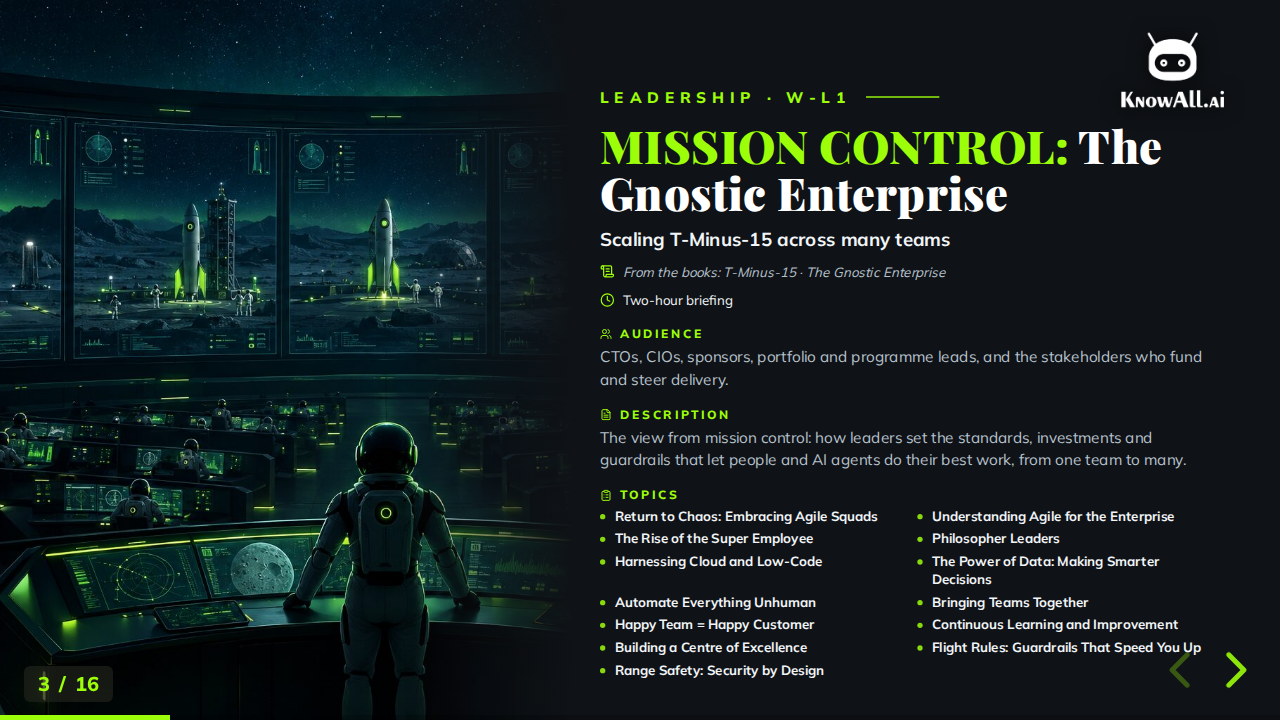
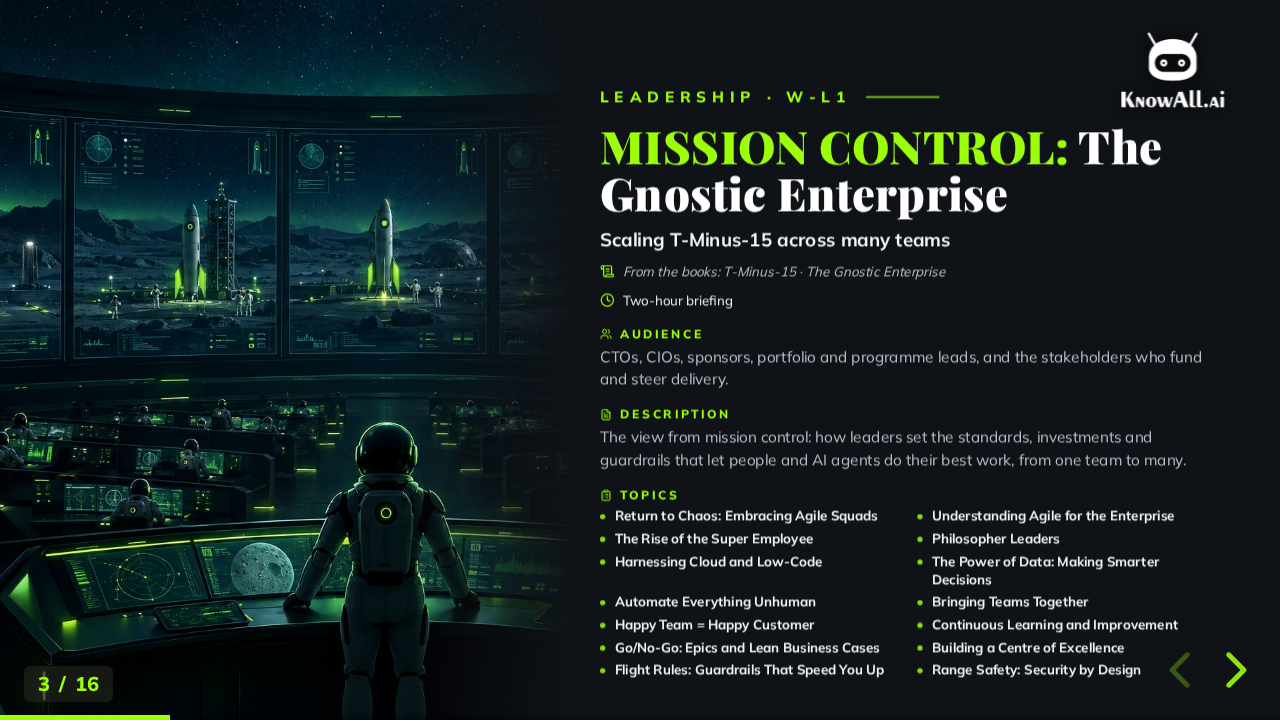
feat(presentations): add Go/No-Go to the W-L1 chapter topics
The Gnostic Enterprise is gaining "Go/No-Go: Epics and Lean Business
Cases" before the Centre of Excellence chapter; the slide's topics (now
fourteen, two columns) and the chat site index follow.

diff --git a/app/api/chat/site-index.ts b/app/api/chat/site-index.ts
@@ -27,7 +27,7 @@ Presentations (https://www.knowall.ai/presentations/) — our slide decks, each 
 - AI Discovery Workshop (https://www.knowall.ai/presentations/ai-discovery.html): the one-day workshop, €2,000 fixed price. Pre-work surveys, an on-site workshop, one-to-one interviews, a value-versus-effort prioritisation (quick wins, major projects, fill-ins, reconsider) and a report with lean business cases. The ideal first step before a Proto-Sprint or project. Best for: "where should we start with AI?", what the Discovery Day involves and costs, how we decide which ideas are worth doing, building a business case.
 - CISP, the Continuous Improvement Service Plan (https://www.knowall.ai/presentations/cisp.html): ongoing support after go-live via pre-purchased time-and-material blocks, typically a twelve-month term, covering Microsoft, AI and custom solutions. Tiers: Gold (4-hour response, 1 business day; Strategic €1,250/day, delivery roles €950/day), Silver (8 hours, 2 business days; €1,200 / €900), Bronze (16 hours, 3 business days; €1,150 / €850). Delivery roles: Prepper, Designer, Engineer, Tester, Operator, Scrum Master. Best for: support after go-live, how a CISP is priced, SLA response times, day rates, buying a block of hours instead of a project.
 - The Purple Team (https://www.knowall.ai/presentations/purple-team.html): continuous AI security. The CVE flood and CISA's exploited list, frontier models on defence, Pennie, Ollie and Poppie, the attack, defend, fix, report loop, advisory-to-merged-fix patching, safe-by-design rules, the tools it works with, the Purple Team Portal, hosted or in-tenant or fully sovereign, and paying by real hours on a CISP after a Security Discovery. Best for: how the Purple Team works, is it safe, where it runs, how it is paid for.
-- T-Minus-15 Workshops (https://www.knowall.ai/presentations/tminus15-workshops.html): capability-building workshops that teach a client's own team to deliver the T-Minus-15 way, one slide per workshop with its audience, description and topics. Seven methodology workshops for the whole delivery team, one for each stage of the lifecycle and each built on the T-Minus-15 book: W-M0 Assemble: The Avengers of Agile (Agile, Scrum, Kanban, DevOps and assembling a cross-functional squad), W-M1 Plan: plotting the course (sprint goals, story point estimation, capacity, roadmaps and incremental releases), W-M2 Prep (decoding the client's wants and needs, the product backlog, epics, features and stories), W-M3 Design (crafting UX that doesn't suck, agentic design, brand guidelines), W-M4 Engineer (the art of engineering), W-M5 Test (raising the bar: acceptance criteria, test plans, automated, security, performance and user acceptance testing) and W-M6 Operate (shipping value: CI/CD, branching, infrastructure-as-code, release pipelines). Five technology workshops, in any order: W-T1 Azure DevOps, W-T2 Dataverse vs SharePoint vs SQL, W-T3 Power Platform including Code Apps (can run as a series), W-T4 CI/CD and W-T5 agentic coding with tools such as Claude Code. Each workshop is typically half a day; technology workshops can be followed by deeper dives on specific subjects. Plus a two-hour leadership briefing for CTOs, sponsors and stakeholders, W-L1 Mission Control: The Gnostic Enterprise (how leaders set the standards, investments and guardrails that let people and AI agents do their best work, from one team to many; one topic per chapter of The Gnostic Enterprise: agile squads, agile for the enterprise, the rise of the super employee, philosopher leaders, cloud and low-code, the power of data, automating everything unhuman, bringing teams together, happy team = happy customer, continuous learning, building a Centre of Excellence, flight rules: guardrails that speed you up, and range safety: security by design), drawing on the T-Minus-15 book and The Gnostic Enterprise. Best for: training a client's team in our methodology, which workshop suits which role, what each workshop covers.
+- T-Minus-15 Workshops (https://www.knowall.ai/presentations/tminus15-workshops.html): capability-building workshops that teach a client's own team to deliver the T-Minus-15 way, one slide per workshop with its audience, description and topics. Seven methodology workshops for the whole delivery team, one for each stage of the lifecycle and each built on the T-Minus-15 book: W-M0 Assemble: The Avengers of Agile (Agile, Scrum, Kanban, DevOps and assembling a cross-functional squad), W-M1 Plan: plotting the course (sprint goals, story point estimation, capacity, roadmaps and incremental releases), W-M2 Prep (decoding the client's wants and needs, the product backlog, epics, features and stories), W-M3 Design (crafting UX that doesn't suck, agentic design, brand guidelines), W-M4 Engineer (the art of engineering), W-M5 Test (raising the bar: acceptance criteria, test plans, automated, security, performance and user acceptance testing) and W-M6 Operate (shipping value: CI/CD, branching, infrastructure-as-code, release pipelines). Five technology workshops, in any order: W-T1 Azure DevOps, W-T2 Dataverse vs SharePoint vs SQL, W-T3 Power Platform including Code Apps (can run as a series), W-T4 CI/CD and W-T5 agentic coding with tools such as Claude Code. Each workshop is typically half a day; technology workshops can be followed by deeper dives on specific subjects. Plus a two-hour leadership briefing for CTOs, sponsors and stakeholders, W-L1 Mission Control: The Gnostic Enterprise (how leaders set the standards, investments and guardrails that let people and AI agents do their best work, from one team to many; one topic per chapter of The Gnostic Enterprise: agile squads, agile for the enterprise, the rise of the super employee, philosopher leaders, cloud and low-code, the power of data, automating everything unhuman, bringing teams together, happy team = happy customer, continuous learning, go/no-go: epics and lean business cases, building a Centre of Excellence, flight rules: guardrails that speed you up, and range safety: security by design), drawing on the T-Minus-15 book and The Gnostic Enterprise. Best for: training a client's team in our methodology, which workshop suits which role, what each workshop covers.
 Prices are in euros as shown in the decks; for a quote, invite the visitor to email you (sallie@knowall.ai) or book a Discovery Day. Every deck's closing slide gives [hello@knowall.ai](mailto:hello@knowall.ai) as the contact.
 
 Our other products and sites (one line each; link them when they fit):

diff --git a/public/presentations/tminus15-workshops.html b/public/presentations/tminus15-workshops.html
@@ -457,6 +457,7 @@
                 <li>Bringing Teams Together</li>
                 <li>Happy Team = Happy Customer</li>
                 <li>Continuous Learning and Improvement</li>
+                <li>Go/No-Go: Epics and Lean Business Cases</li>
                 <li>Building a Centre of Excellence</li>
                 <li>Flight Rules: Guardrails That Speed You Up</li>
                 <li>Range Safety: Security by Design</li>

diff --git a/presentations-src/tminus15-workshops.html b/presentations-src/tminus15-workshops.html
@@ -427,6 +427,7 @@
             "Bringing Teams Together",
             "Happy Team = Happy Customer",
             "Continuous Learning and Improvement",
+            "Go/No-Go: Epics and Lean Business Cases",
             "Building a Centre of Excellence",
             "Flight Rules: Guardrails That Speed You Up",
             "Range Safety: Security by Design"
